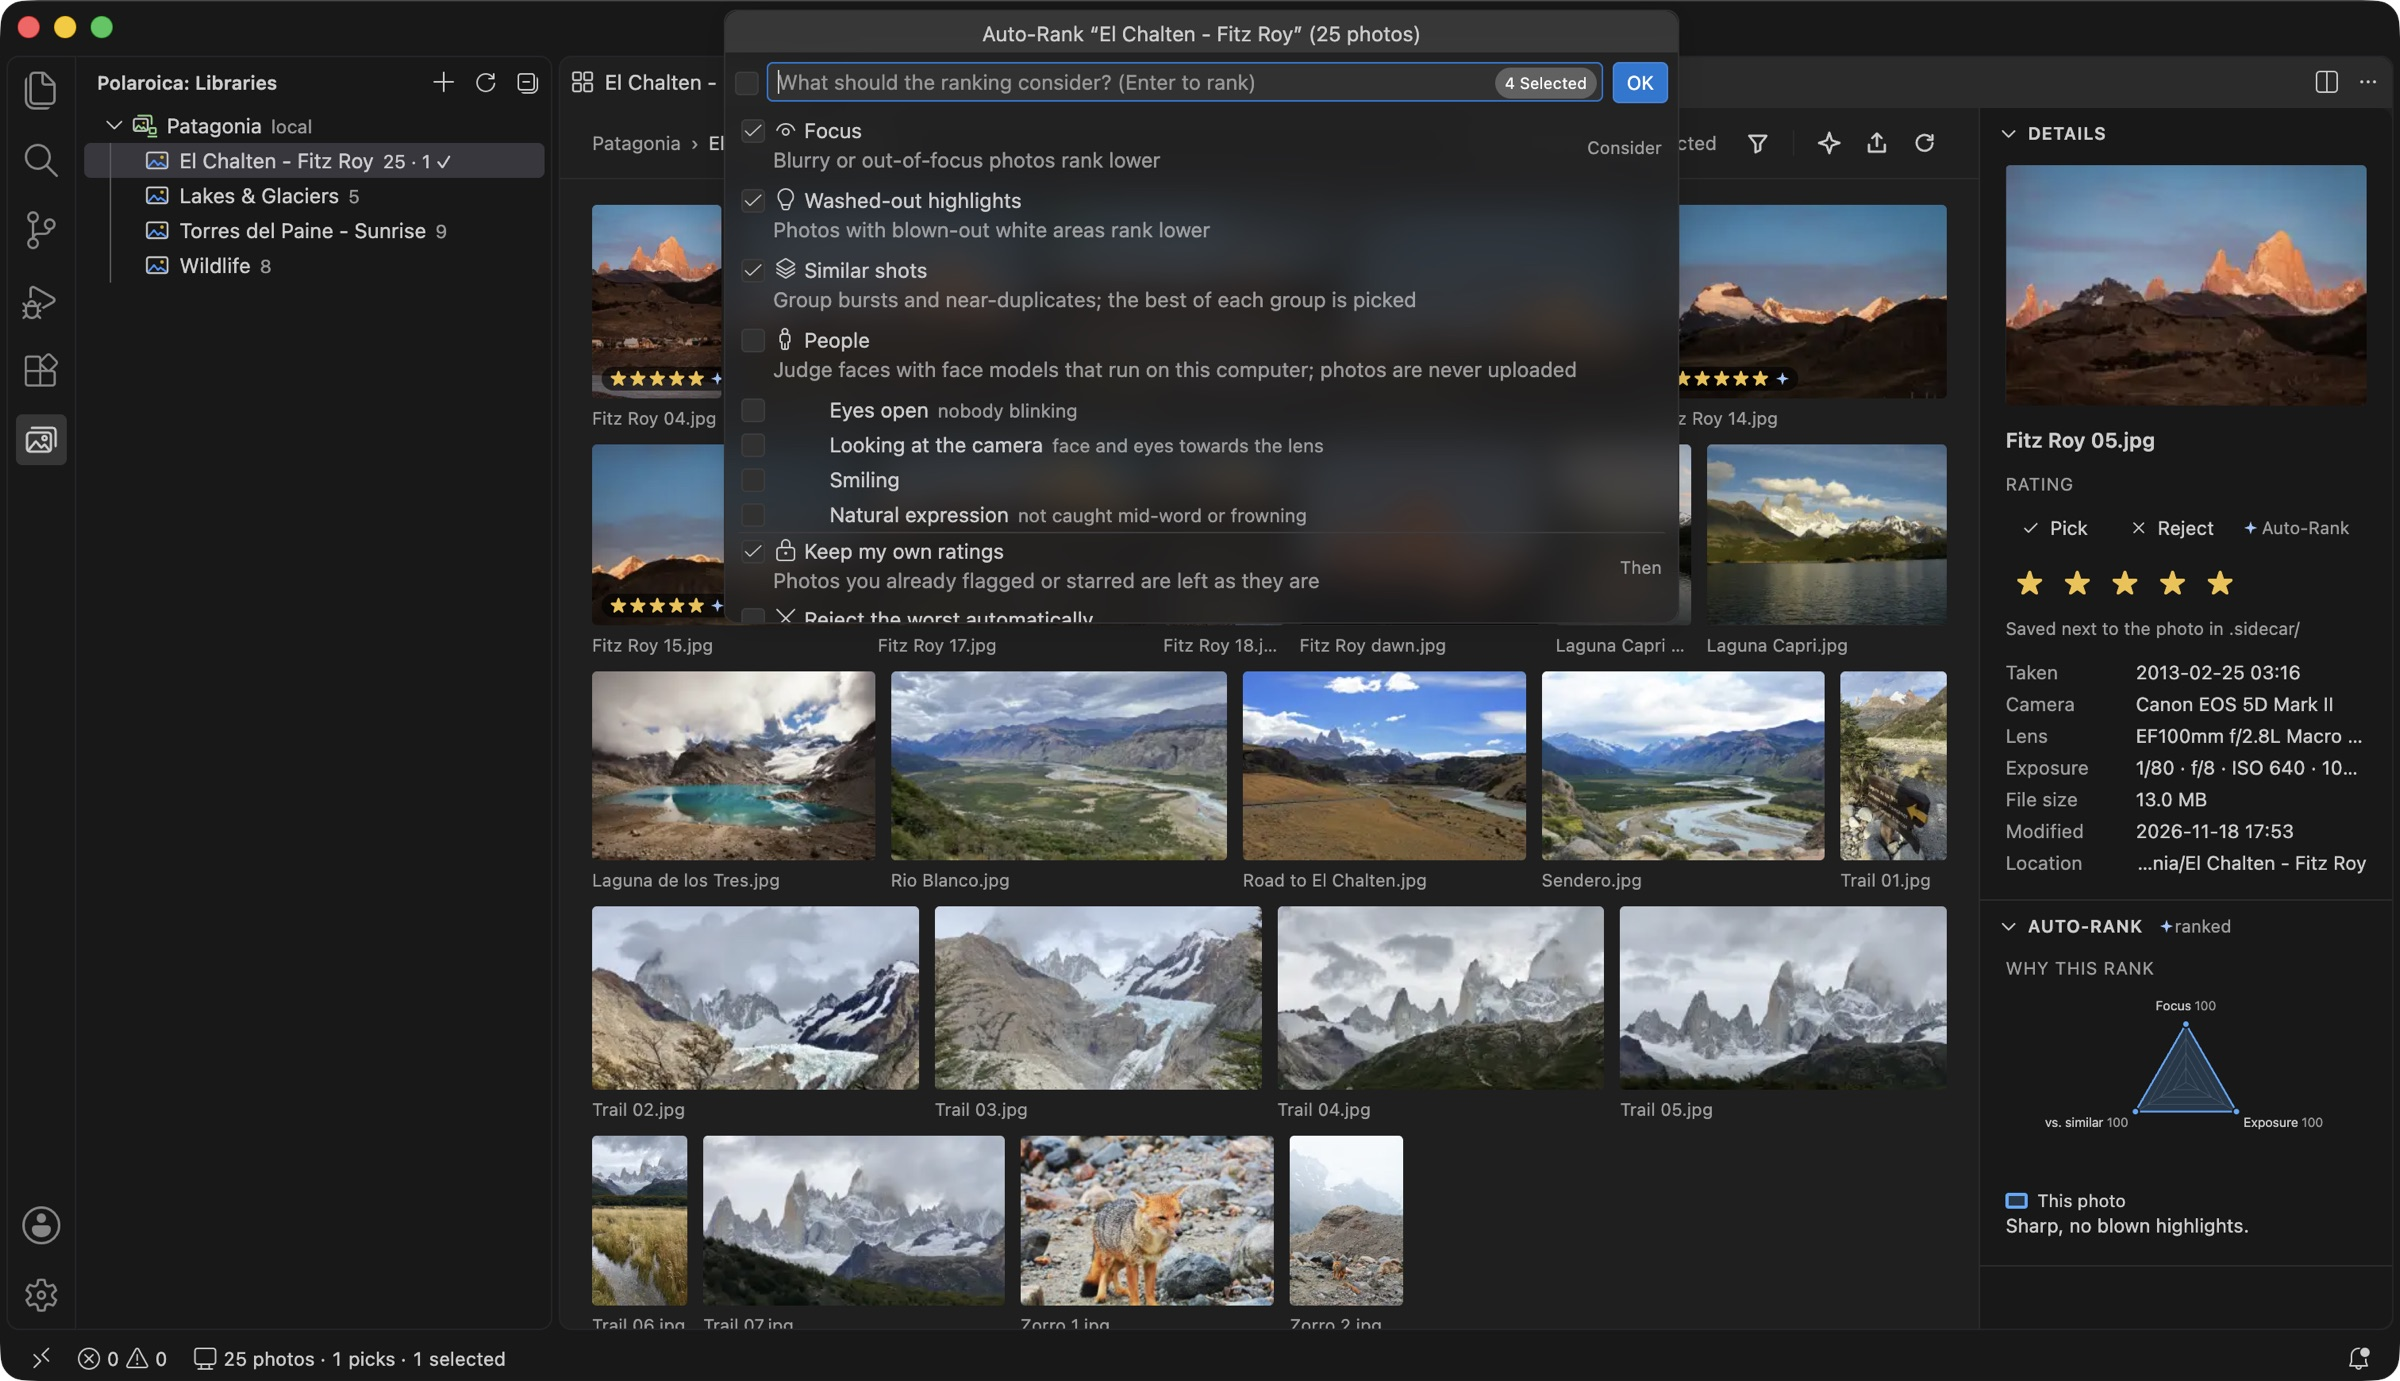
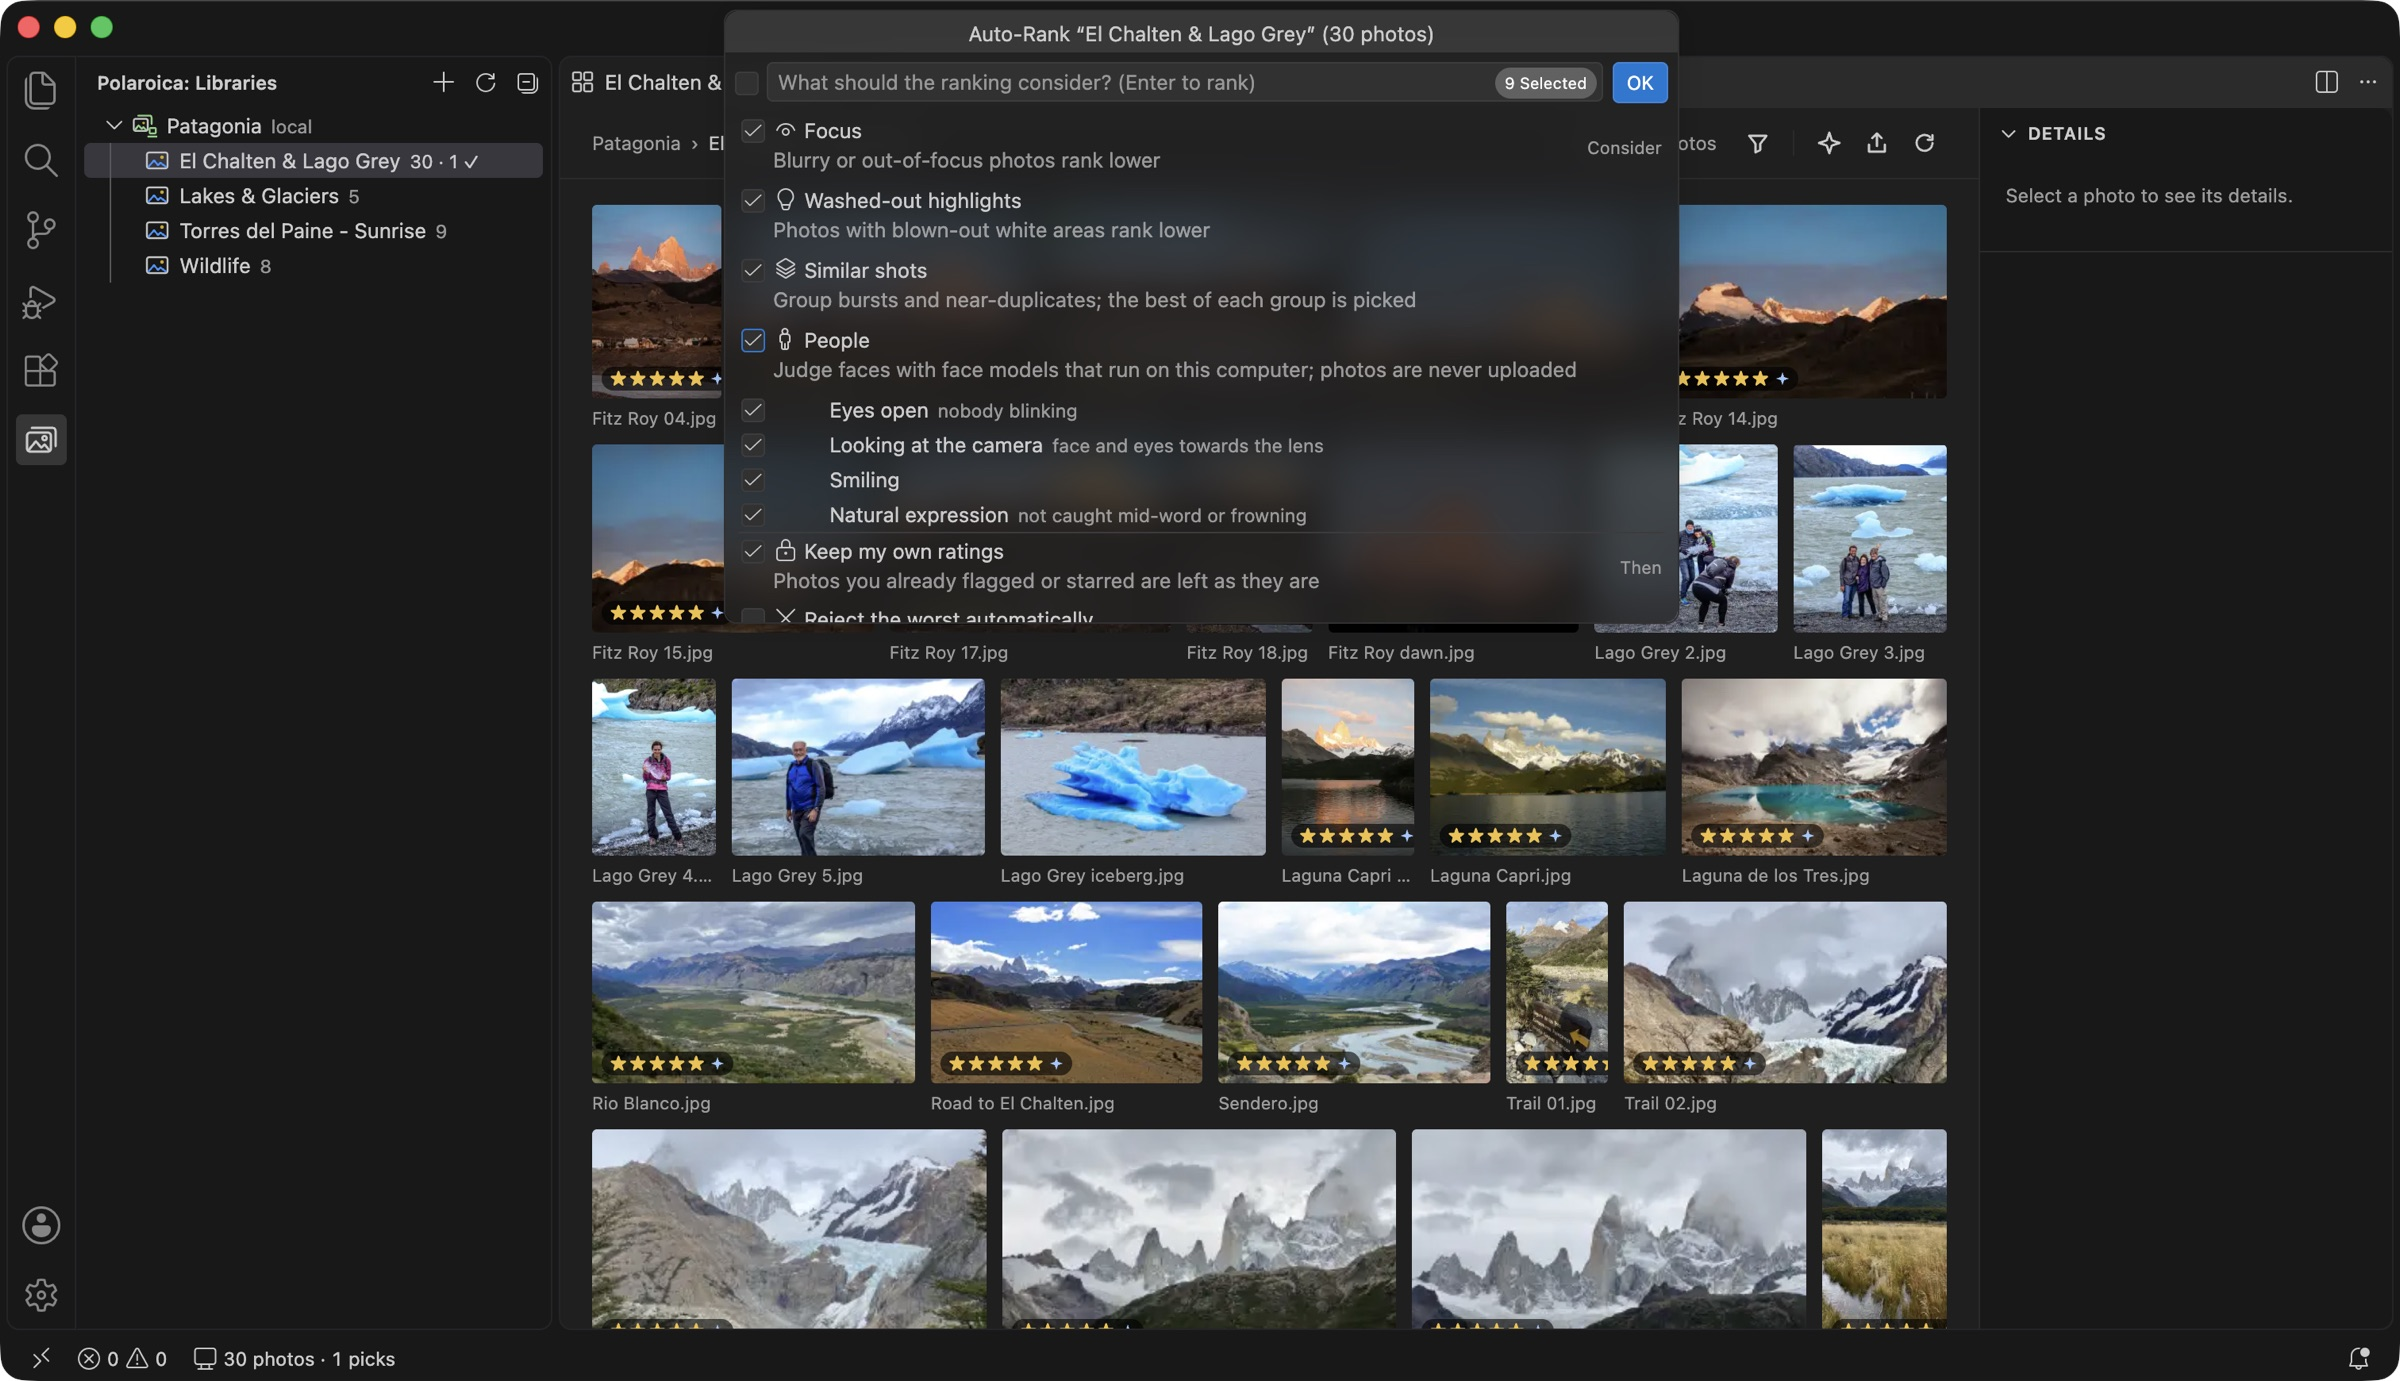
Hero: a portrait shot with the full People radar
Lago Grey photos (Murray Foubister, CC BY-SA 2.0) join the album; the
selected hiker shows Auto-Rank's seven-axis radar, and the dialog shot
has People enabled. Credits updated.

diff --git a/index.html b/index.html
@@ -272,8 +272,8 @@ footer a { color: var(--muted); }
 
     <figure class="shot">
       <img class="frame-img" src="assets/grid.jpg" width="2400" height="1381"
-           alt="Polaroica in VS Code: an album of Patagonia photos in a justified grid with stars, a pick and a stacked burst, and the details panel showing EXIF and the Auto-Rank radar chart.">
-      <figcaption class="caption">An album after Auto-Rank: stars, the best shot of a burst picked and stacked, EXIF and the reasoning behind each rank.</figcaption>
+           alt="Polaroica in VS Code: an album of Patagonia photos in a justified grid with stars, a pick and a stacked burst. A hiker at Lago Grey is selected; the details panel shows EXIF and an Auto-Rank radar chart with focus, exposure, eyes open, looking at the camera, smiling and natural expression.">
+      <figcaption class="caption">An album after Auto-Rank with People: every photo gets stars and a reason. Here the hiker is looking at the camera and smiling; next to him, a shot where she looks down got 3 stars for “eyes closed”.</figcaption>
     </figure>
   </div>
 </header>
@@ -451,7 +451,7 @@ footer a { color: var(--muted); }
     </div>
   </div>
   <div class="wrap">
-    <p class="credits">Screenshot photos of El Chaltén and Fitz Roy from Wikimedia Commons, used under their licenses: Almonroth (CC BY-SA 3.0): <a href="https://commons.wikimedia.org/wiki/File:Fitz_Roy_El_Chalten_sunrise-13.jpg">1</a>, <a href="https://commons.wikimedia.org/wiki/File:Fitz_Roy_El_Chalten_sunrise-14.jpg">2</a>, <a href="https://commons.wikimedia.org/wiki/File:Fitz_Roy_El_Chalten_sunrise-15.jpg">3</a>, <a href="https://commons.wikimedia.org/wiki/File:Fitz_Roy_El_Chalten_sunrise-17.jpg">4</a>, <a href="https://commons.wikimedia.org/wiki/File:Fitz_Roy_El_Chalten_sunrise-18.jpg">5</a>, <a href="https://commons.wikimedia.org/wiki/File:Fitz_Roy_El_Chalten_sunrise-4.jpg">6</a>, <a href="https://commons.wikimedia.org/wiki/File:Fitz_Roy_El_Chalten_sunrise-5.jpg">7</a>, <a href="https://commons.wikimedia.org/wiki/File:Fitz_Roy_El_Chalten_sunrise-7.jpg">8</a>, <a href="https://commons.wikimedia.org/wiki/File:Fitz_Roy_El_Chalten_sunrise-9.jpg">9</a>, <a href="https://commons.wikimedia.org/wiki/File:Laguna_de_los_Tres_color.jpg">10</a>; Hiroki Ogawa (CC BY 3.0): <a href="https://commons.wikimedia.org/wiki/File:Sunrise_Cerro_Fitz_Roy_3,375m_Chalten_Argentina_-_panoramio.jpg">1</a>; Martin Cígler (CC BY-SA 3.0): <a href="https://commons.wikimedia.org/wiki/File:El_Chalt%C3%A9n_a_Fitz_Roy_-_panoramio.jpg">1</a>; lamblukas (CC BY 2.0): <a href="https://commons.wikimedia.org/wiki/File:Fitz_Roy,_El_Chalten,_Patagonia,_Argentina.jpg">1</a>, <a href="https://commons.wikimedia.org/wiki/File:Fitz_Roy,_El_Chalten,_Patagonia,_Argentina_-_51928845757.jpg">2</a>, <a href="https://commons.wikimedia.org/wiki/File:Fitz_Roy,_El_Chalten,_Patagonia,_Argentina_-_51930161474.jpg">3</a>, <a href="https://commons.wikimedia.org/wiki/File:Fitz_Roy,_El_Chalten,_Patagonia.jpg">4</a>, <a href="https://commons.wikimedia.org/wiki/File:Fitz_Roy,_El_Chalten_cloud.jpg">5</a>, <a href="https://commons.wikimedia.org/wiki/File:Fitz_Roy,_Patagonia,_El_Chalten,_Argentina.jpg">6</a>, <a href="https://commons.wikimedia.org/wiki/File:Fitz_Roy,_Patagonia,_El_Chalten,_Argentina_-_51930490320.jpg">7</a>, <a href="https://commons.wikimedia.org/wiki/File:Rio_Blanco_near_Fitz_Roy,_Patagonia,_El_Chalten,_Argentina.jpg">8</a>; CamiPetenatti (CC BY-SA 4.0): <a href="https://commons.wikimedia.org/wiki/File:Zorro_en_Laguna_de_Los_Tres._El_Chalt%C3%A9n._Argentina.jpg">1</a>, <a href="https://commons.wikimedia.org/wiki/File:Zorro_en_Laguna_de_los_Tres._El_Chalt%C3%A9n._Argentina.jpg">2</a>, <a href="https://commons.wikimedia.org/wiki/File:Postal_del_Sendero_Laguna_de_los_Tres.jpg">3</a>; Gagea (CC BY-SA 3.0): <a href="https://commons.wikimedia.org/wiki/File:Fitz_Roy_and_reflect_in_Laguna_Capri_(sunrise).JPG">1</a>, <a href="https://commons.wikimedia.org/wiki/File:Fitz_Roy_group_-_Laguna_Capri_-_01.JPG">2</a>.</p>
+    <p class="credits">Photos in the screenshots (El Chaltén, Fitz Roy and Lago Grey) are from Wikimedia Commons, used under their licenses: Almonroth (CC BY-SA 3.0): <a href="https://commons.wikimedia.org/wiki/File:Fitz_Roy_El_Chalten_sunrise-13.jpg">1</a>, <a href="https://commons.wikimedia.org/wiki/File:Fitz_Roy_El_Chalten_sunrise-14.jpg">2</a>, <a href="https://commons.wikimedia.org/wiki/File:Fitz_Roy_El_Chalten_sunrise-15.jpg">3</a>, <a href="https://commons.wikimedia.org/wiki/File:Fitz_Roy_El_Chalten_sunrise-17.jpg">4</a>, <a href="https://commons.wikimedia.org/wiki/File:Fitz_Roy_El_Chalten_sunrise-18.jpg">5</a>, <a href="https://commons.wikimedia.org/wiki/File:Fitz_Roy_El_Chalten_sunrise-4.jpg">6</a>, <a href="https://commons.wikimedia.org/wiki/File:Fitz_Roy_El_Chalten_sunrise-5.jpg">7</a>, <a href="https://commons.wikimedia.org/wiki/File:Fitz_Roy_El_Chalten_sunrise-7.jpg">8</a>, <a href="https://commons.wikimedia.org/wiki/File:Fitz_Roy_El_Chalten_sunrise-9.jpg">9</a>, <a href="https://commons.wikimedia.org/wiki/File:Laguna_de_los_Tres_color.jpg">10</a>; Hiroki Ogawa (CC BY 3.0): <a href="https://commons.wikimedia.org/wiki/File:Sunrise_Cerro_Fitz_Roy_3,375m_Chalten_Argentina_-_panoramio.jpg">1</a>; Martin Cígler (CC BY-SA 3.0): <a href="https://commons.wikimedia.org/wiki/File:El_Chalt%C3%A9n_a_Fitz_Roy_-_panoramio.jpg">1</a>; lamblukas (CC BY 2.0): <a href="https://commons.wikimedia.org/wiki/File:Fitz_Roy,_El_Chalten,_Patagonia,_Argentina.jpg">1</a>, <a href="https://commons.wikimedia.org/wiki/File:Fitz_Roy,_El_Chalten,_Patagonia,_Argentina_-_51928845757.jpg">2</a>, <a href="https://commons.wikimedia.org/wiki/File:Fitz_Roy,_El_Chalten,_Patagonia,_Argentina_-_51930161474.jpg">3</a>, <a href="https://commons.wikimedia.org/wiki/File:Fitz_Roy,_El_Chalten,_Patagonia.jpg">4</a>, <a href="https://commons.wikimedia.org/wiki/File:Fitz_Roy,_El_Chalten_cloud.jpg">5</a>, <a href="https://commons.wikimedia.org/wiki/File:Fitz_Roy,_Patagonia,_El_Chalten,_Argentina.jpg">6</a>, <a href="https://commons.wikimedia.org/wiki/File:Fitz_Roy,_Patagonia,_El_Chalten,_Argentina_-_51930490320.jpg">7</a>, <a href="https://commons.wikimedia.org/wiki/File:Rio_Blanco_near_Fitz_Roy,_Patagonia,_El_Chalten,_Argentina.jpg">8</a>; CamiPetenatti (CC BY-SA 4.0): <a href="https://commons.wikimedia.org/wiki/File:Zorro_en_Laguna_de_Los_Tres._El_Chalt%C3%A9n._Argentina.jpg">1</a>, <a href="https://commons.wikimedia.org/wiki/File:Zorro_en_Laguna_de_los_Tres._El_Chalt%C3%A9n._Argentina.jpg">2</a>, <a href="https://commons.wikimedia.org/wiki/File:Postal_del_Sendero_Laguna_de_los_Tres.jpg">3</a>; Gagea (CC BY-SA 3.0): <a href="https://commons.wikimedia.org/wiki/File:Fitz_Roy_and_reflect_in_Laguna_Capri_(sunrise).JPG">1</a>, <a href="https://commons.wikimedia.org/wiki/File:Fitz_Roy_group_-_Laguna_Capri_-_01.JPG">2</a>; Murray Foubister (CC BY-SA 2.0): <a href="https://commons.wikimedia.org/wiki/File:In_%26_around_Torres_Del_Paine_Nat%27l_Park_-_a_short_hike_amongst_the_icebergs_of_Lago_Grey_(48m_asl)_-_Gavin_%26_Sacheen_being_framed_by_Britta_-_(24559094873).jpg">1</a>, <a href="https://commons.wikimedia.org/wiki/File:In_%26_around_Torres_Del_Paine_Nat%27l_Park_-_a_short_hike_amongst_the_icebergs_of_Lago_Grey_(48m_asl)_-_Liaan,Anchen_%26_Bert_-_they_don%27t_have_this_stuff_in_South_Africa_-_(25185956395).jpg">2</a>, <a href="https://commons.wikimedia.org/wiki/File:In_%26_around_Torres_Del_Paine_Nat%27l_Park_-_a_short_hike_amongst_the_icebergs_of_Lago_Grey_(48m_asl)_-_Jennifer_handles_the_ice_-_(25185974795).jpg">3</a>, <a href="https://commons.wikimedia.org/wiki/File:In_%26_around_Torres_Del_Paine_Nat%27l_Park_-_a_short_hike_amongst_the_icebergs_of_Lago_Grey_(48m_asl)_-_the_%27old_man_of_the_mountain%27_-_(24559160923).jpg">4</a>, <a href="https://commons.wikimedia.org/wiki/File:In_%26_around_Torres_Del_Paine_Nat%27l_Park_-_a_short_hike_amongst_the_icebergs_of_Lago_Grey_(48m_asl)_-_(25092816601).jpg">5</a>.</p>
   </div>
 </footer>
 
